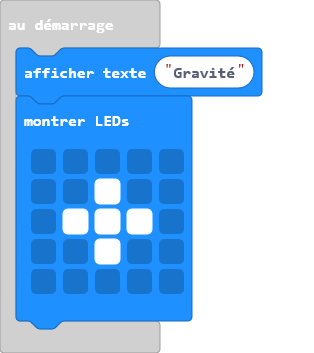
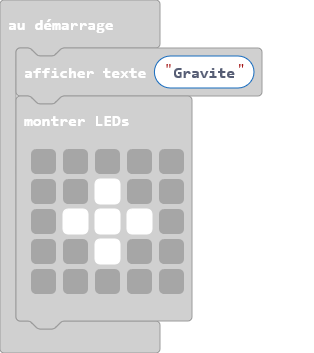
Mise à jour main.blocks, main.ts

diff --git a/main.ts b/main.ts
@@ -1,4 +1,4 @@
-basic.showString("Gravité")
+basic.showString("Gravite")
 basic.showLeds(`
     . . . . .
     . . # . .
